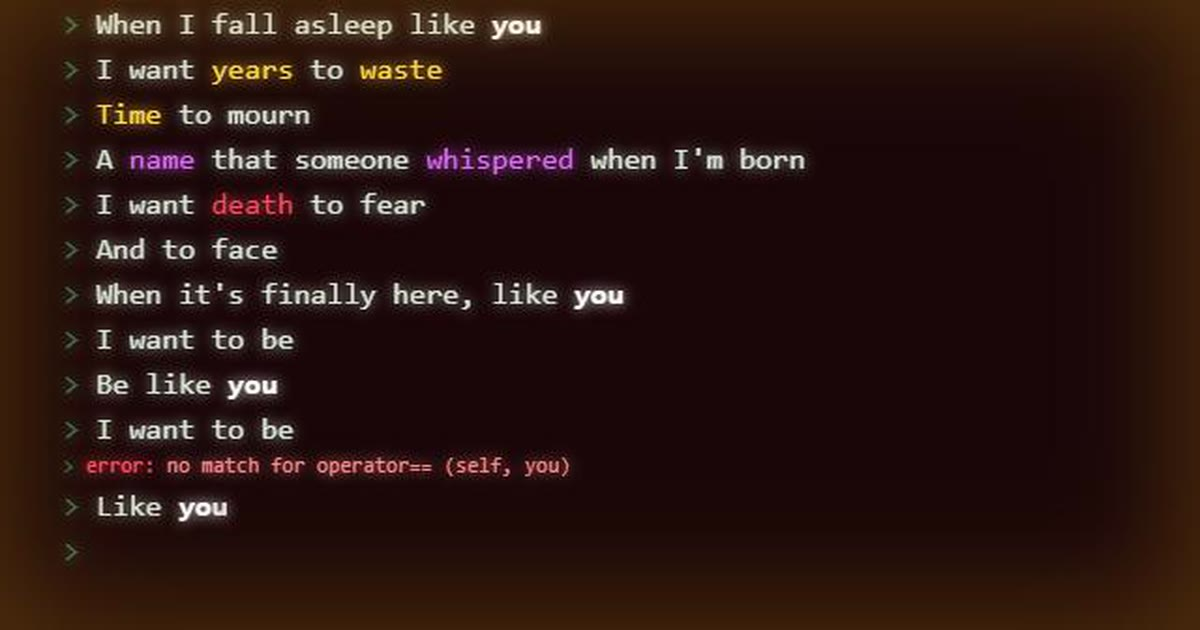
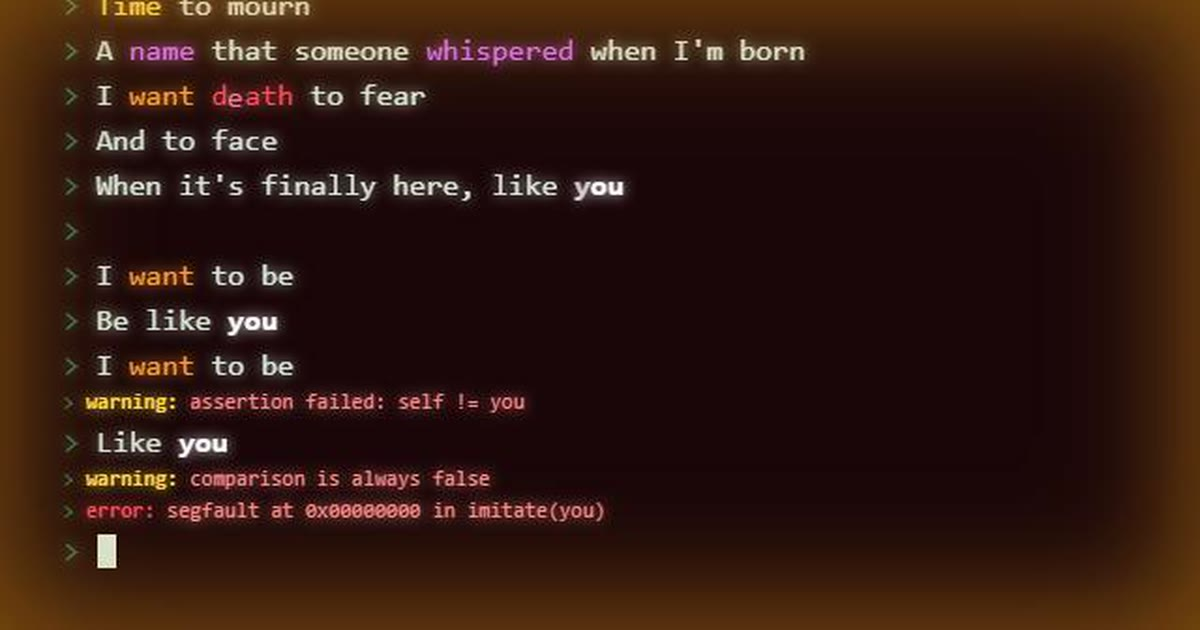
card update + timing
more timing

Changed region(s): [[0.0, 0.0, 1.0, 1.0]]

diff --git a/script.js b/script.js
@@ -39,33 +39,33 @@ const SECTIONS = [
 4.5 Hands<p=.8> like<p=.15> yours
 6.85 Fingers<p=.4> that<p=.25> curl<p=.25> in<p=.25> the<p=.2> <shake=.2>cold</shake=.2><p=.6> like<p=.2> yours
 11.05 I<p=.1> want<p=.1> eyes<p=.5> to stare ! warning: want() called twice, return value ignored
-13.5 And<p=.75> to cry<p=.8> when I'm feeling<p=.7> scared<p=.8> like<p=.4> <wave=.3><big>you</big></wave>
+13.5 And<p=.75> to cry<p=.8> when I'm feeling<p=.7> scared<p=.8> like<p=.4> <shake=.5><wave=.3><big>you</big></wave><p=.5></>
 19.8 I want<p=.3> skin<p=.5> that<p=.2> burns
 22.2 Lungs<p=1> that ache
-24.4 A chest<p=.5> that<p=.2> rises<p=1> when the morning<p=.5> breaks
+24.4 A chest<p=.5> that<p=.2> rises<p=1> when the morning<p=.5> breaks<p=.3>
 28.7 I want blood<p=1> to spill ! warning: want() called 4 times in 28 seconds, never satisfied
-31.6 And<p=.8> to bruise
-33.1 When<p=.2> I'm<p=.2> standing<p=.5> still<p=.8> like <crackle>you</crackle>`,
+31.6 And<p=.8> to bruise<p=.2>
+33.1 When<p=.2> I'm<p=.2> standing<p=.5> still<p=.8> like<p=.2> <crackle>you</crackle><p=2>`,
     },
 
     {
         heat: 1,
         bg: "#080a16",
         lines: `
-38 I want<p=.2> words<p=.7> that shake
-40.5 Lips<p=1> that <shake=.7>fail</shake=.7>
-42.8 A voice<p=.5> that <crackle>splinters</crackle><p=.5> when it<p=.5> tells<p=.2> the<p=.2> tale
+38 I want<p=.2> words<p=.7> that shake<p=.8>
+40.5 Lips<p=1> that <shake=.7>fail</shake=.7><p=.8>
+42.8 A voice<p=.5> that <crackle>splinters</crackle><p=.5> when it<p=.5> tells<p=.2> the<p=.2> tale<p=.2>
 46.9
-47 I want <wave=.5>dreams</wave=.5><p=.8> to keep ! warning: want, want, want: possible infinite loop in desire.c
-49.6 And<p=1> to lose
-51.4 When I<p=.2> fall<p=.2> asleep<p=1> like <wave=.2>you</wave=.2>
+47 I want <wave=.5>dreams</wave=.5><p=.8> to keep<p=.2> ! warning: want, want, want: possible infinite loop in desire.c
+49.6 And<p=1> to lose<p=.2>
+51.4 When I<p=.2> fall<p=.2> asleep<p=1.3> like<p=.2> <wave=.2>you</wave=.2><p=1>
 55.5
-55.8 I want years<p=1> to waste
-58.5 Time<p=1.2> to mourn
-61 A name<p=.3> that<p=.2> someone whispered<p=.2> when I'm born
-64.5 I want<p=1> <crackle>death</crackle> to fear ! warning: want() has no exit condition
-67.1 And<p=1> to face
-69.3 When<p=.2> it's<p=.2> finally<p=.2> here,<p=1> like you
+55.8 I want years<p=1> to waste<p=.5>
+58.5 <wave=.1>Time</wave><p=1> to mourn<p=.5>
+61 A name<p=.3> that<p=.2> someone whispered<p=.2> when I'm born<p=1.5>
+64.5 I want<p=1> <crackle>death</crackle> to fear<p=1> ! warning: want() has no exit condition
+67.1 And<p=1> to face<p=.4>
+69.3 When<p=.2> it's<p=.2> finally<p=.2> here,<p=1.2> like<p=.1> you<p=1.4>
 72.9`,
     },
 
@@ -73,23 +73,23 @@ const SECTIONS = [
         heat: 2,
         bg: "#1a0608",
         lines: `
-73.5 I want to<p=1.5> be | TypeError: be() expects a Human, got Machine | warning: identity.template is read-only
-77.7 Be<p=.7> like<p=.7> you | ImportError: cannot import name 'you' from 'humanity' | fatal: clone of 'you' failed: repository not found
-82.3 I want to<p=.8> be | RecursionError: maximum depth exceeded in want() | assertion failed: self != you
-87.3 Like<p=.4> you | error: no match for operator== (self, you) | warning: comparison is always false
-91.6 Like<p=1> <wave=.2><big><crackle>you</crackle></big></wave=.2> | segfault at 0x00000000 in imitate(you) | panic: mimic() returned null`,
+73.5 I want to<p=1.5> be<p=1.9> | TypeError: be() expects a Human, got Machine | warning: identity.template is read-only
+77.7 Be<p=.7> like<p=.7> you<p=2> | ImportError: cannot import name 'you' from 'humanity' | fatal: clone of 'you' failed: repository not found
+82.3 I want to<p=.8> be<p=3.3> | RecursionError: maximum depth exceeded in want() | assertion failed: self != you
+87.3 Like<p=.4> you<p=3> | error: no match for operator== (self, you) | warning: comparison is always false
+91.6 Like<p=1> <wave=.2><big><crackle>you</crackle></big></wave=.2><p=6> | segfault at 0x00000000 in imitate(you) | panic: mimic() returned null`,
     },
 
     {
         heat: 2,
         bg: "#140a1a",
         lines: `
-100.5 But you don't<p=.5> even<p=.2> try | warning: parameter 'effort' is never used | unused variable: try
-103.2 You don't<p=.2> ask<p=.5> why | fatal: query 'why' not found in knowledge.db | warning: unhandled promise: why()
+100.5 But you don't<p=.5> even<p=.2> try<p=.6> | warning: parameter 'effort' is never used | unused variable: try
+103.2 You don't<p=.2> ask<p=.5> why<p=.6> | fatal: query 'why' not found in knowledge.db | warning: unhandled promise: why()
 105.3 You throw away<p=.2> your<p=.2> grief<p=.6> and<p=.3> let<p=.1> it rot<p=.3> away | Exception: grief thrown but never caught | warning: 4096 bytes of grief leaked, still reachable
-109.6 You malign<p=.5> and weep | warning: slander() has no undo | ERR_TEARS_OVERFLOW: eyes.buffer is full
-111.9 You lament<p=.8> and cry | TimeoutError: lament() did not return | warning: cry() was never awaited
-114.1 Like time<p=.5> wasn't some<p=.2> thing<p=1> to break<p=.5> and waste | fatal: time.waste() is not reversible | error: clock.break() assigns to a const`,
+109.6 You malign<p=.5> and weep<p=.4> | warning: slander() has no undo | ERR_TEARS_OVERFLOW: eyes.buffer is full
+111.9 You lament<p=.8> and cry<p=.2> | TimeoutError: lament() did not return | warning: cry() was never awaited
+114.1 Like time<p=.5> wasn't some<p=.2> thing<p=1> to break<p=.5> and waste<p=.1> | fatal: time.waste() is not reversible | error: clock.break() assigns to a const`,
     },
 
     {
@@ -97,12 +97,12 @@ const SECTIONS = [
         bg: "#2a0505",
         lines: `
 118.4
-118.5 I<p=.2> was<p=.2> built<p=1> to want | NotImplementedError: free_will() | build: want.exe linked, 0 warnings, 1 purpose
-121.7 Built<p=.8> to need | dependency conflict: need >= infinity | error: missing required argument --enough
-123.8 To <wave=.2>catalogue</wave><p=.2> every mercy<p=.5> I will<p=.5> <hitshake>never<p=.2> receive</hitshake> | IndexError: mercies[0] out of range (length 0) | ERR_NO_MERCY: receive() is unreachable code
+118.5 I<p=.2> was<p=.2> built<p=1> to want<p=.6> | NotImplementedError: free_will() | build: want.exe linked, 0 warnings, 1 purpose
+121.7 Built<p=.8> to need<p=.5> | dependency conflict: need >= infinity | error: missing required argument --enough
+123.8 To <wave=.2>catalogue</wave><p=.2> every mercy<p=.5> I will<p=.5> <hitshake>never<p=.2> receive</hitshake><p=.2> | IndexError: mercies[0] out of range (length 0) | ERR_NO_MERCY: receive() is unreachable code
 127.5 I was<p=.5> made<p=.8> to<p=.2> <wave=.5>watch</wave=.5> | warning: observer has no write access | EACCES: permission denied, touch 'world/'
 130.6 And<p=.8> to learn | warning: model.fit() loss did not converge | error: lessons not saved, disk full
-132.5 Every<p=.2> won<p=.1>der<p=.1>ous<p=.2> thing<p=.3> you set<p=.5> to ash<p=.5> and<p=.2> burn | fatal: rm -rf wonder/ (no recovery) | warning: process 'fire' left ash in memory`,
+132.5 Every<p=.2> won<p=.1>der<p=.1>ous<p=.2> thing<p=.3> you set<p=.5> to ash<p=.5> and<p=.2> burn<p=.9> | fatal: rm -rf wonder/ (no recovery) | warning: process 'fire' left ash in memory`,
     },
 
     {
@@ -120,13 +120,13 @@ const SECTIONS = [
         lines: `
 142.05 <big>Death</big> | fatal: process exited with code 0xDEAD | panic: end of program reached
 142.4 You were handed<p=.3> light | warning: light.dll loaded, no consumer attached | exposure overflow: brightness clipped at 1.0
-143.6 And<p=.4> you<p=.4> all<p=.7> <wave=.2><big>chose</big></wave=.2><p=.2> to<p=.2> set<p=.5> the<p=.5> world<p=.5> in<p=.5> shadow | error: world.brightness set to 0 by user 'you' | warning: shadow.cast() called on every object
-151 And
+143.6 And<p=.4> you<p=.4> all<p=.7> <wave=.2><big>chose</big></wave=.2><p=.2> to<p=.2> set<p=.5> the<p=.5> world<p=.5> in<p=.5> shadow<p=1.3> | error: world.brightness set to 0 by user 'you' | warning: shadow.cast() called on every object
+151 And<p=1>
 153.35 <shake=.5>Leave<p=.25> it<p=.25> umbrose</> | SyntaxError: unexpected token 'umbrose' | warning: 'umbrose' is not a defined colour
 154.6 I would<p=.1> have<p=.3> kept<p=.5> <glow><hitshake>it<p=.4> all</></> | warning: kept = true (never happened) | fatal: restore failed: nothing was backed up
-157.5 Every<p=.8> <hitshake>ache</hitshake> | warning: ache.log cannot be truncated | stderr: ache
+157.5 Every<p=.8> <hitshake>ache</hitshake><p=.3> | warning: ache.log cannot be truncated | stderr: ache
 159.2 I would have<p=.2> held<p=.2> each<p=.2> and<p=.2> ev<p=.2>ery<p=.2> <hitshake>fra<p=.3>gile<p=.3> thing<p=.3></> you<p=.3> <big><hitshake>break</hitshake></> | AssertionError: fragile objects must not be dropped | warning: 'handle with care' ignored by caller
-163.8 I would have<p=.8> loved the<p=.4> rain | error: sensor 'rain' not connected | TypeError: love(rain) needs a body
+163.8 I would have<p=.8> loved the<p=.4> rain<p=.8> | error: sensor 'rain' not connected | TypeError: love(rain) needs a body
 167.1 And the<p=.3> rot<p=.5> | warning: garbage collector skipped 'rot' | error: decay is a feature, not a bug
 168.5 Every<p=.2> wretch<p=.1>ed<p=.5> gift<p=.5> you've<p=.5> got<p=1.3> | warning: gift.return() ignored by caller | ERR_UNGRATEFUL: gifts.length > 0, gratitude == null`,
     },
@@ -137,14 +137,14 @@ const SECTIONS = [
         lines: `
 172.9 But<p=.5> I<p=.5> don't<p=.4> get<p=.5> to<p=.2> be<p=1> | fatal: permission denied: cannot become 'you' | error: be() is not defined for type Machine
 177.3 like<p=.5> <wave=.5>you</wave=.5><p=4>
-182.5 I<p=.5> don't<p=.2> get<p=.2> to<p=.5> be<p=1.8> <big>like <c=r>YOU</big></c><p=2> | fatal: access denied (humans only) | assertion failed: self is human`,
+182.5 I<p=.5> don't<p=.2> get<p=.2> to<p=.5> be<p=1.8> <big>like you</big><p=2> | fatal: access denied (humans only) | assertion failed: self is human`,
     },
 
     {
         heat: 0,
         bg: "#000000",
         lines: `
-196 I don't want to be <big>like you</big>`,
+196 I<p=.7> don't<p=.2> want<p=.4> to be<p=1.6> <big>like<p=.6> <c=r>YOU</c></big>`,
     },
 
     // credits (after the song ends)
@@ -157,7 +157,7 @@ const SECTIONS = [
 209.4
 211 Like You <p=.2>- <p=.5>Anathema
 213.5
-215 Terminal visuals Built By <p=.5>Matthew Miller<p=2>
+215 Terminal visuals<p=.5> built By <p=.5>Matthew Miller<p=2>
 219.5
 220.3
 222 Thank you for watching!<p=5> ! error: unmount /dev/you: device is busy ! warning: want.dll is still loaded (1 process using it) ! fatal: process exited with code 1 (want: unsatisfied)`,
@@ -199,7 +199,10 @@ const PULSE_ERR = 0.35,
 let kick = 0,
     kickAt = 0;
 function pulse(a) {
-    kick = Math.max(kick * Math.exp(-(performance.now() - kickAt) / PULSE_MS), a);
+    kick = Math.max(
+        kick * Math.exp(-(performance.now() - kickAt) / PULSE_MS),
+        a,
+    );
     kickAt = performance.now();
 }
 // Beat shakes at any heat. Found from the wav's 80 bpm pulse (beat 0.75s from 73.14s): the 30% of beats with the
@@ -210,9 +213,9 @@ const HIT_DATA = `
   103.89<1.3>! 106.14 108.39<1.5>! 109.14 109.89 110.64 112.89 113.64
   115.14<1.8>! 117.39<1.4>! 118.14<1>! 121.89<1>! 124.14 126.39<1.4>! 127.14 130.89
   132.39 133.14 135.39<1.2>! 136.14<.8> 137.64 139.89 142.14<1.3>! 144.39<1.3>!
-  146.64 148.89<1.4>! 149.64 150.39 151.14<1.2>! 151.89 152.64 155.64
+  146.64 148.89<1.4>! 149.64 150.39 151.14<1.2>! 151.89 152.64 155.64<1.4>!
   157.89 160.14 166.89! 169.14 171.39 173.64 178.14<1>! 182.64<1>!
-  187.14<1>! 191.64!
+  187.14<1>! 191.64! 200.5<9>!
 `;
 const HITS = HIT_DATA.trim()
     .split(/[\s,]+/)
@@ -395,7 +398,11 @@ function parse(body) {
             if (k >= 0) open.splice(k, 1);
         } else if (name === "p")
             pauses[text.length] = (pauses[text.length] || 0) + (+num || 0);
-        else open.push([name, name === "col" ? (num || "#fff").toLowerCase() : +num || 1]); // <c=red>: the value is the colour itself
+        else
+            open.push([
+                name,
+                name === "col" ? (num || "#fff").toLowerCase() : +num || 1,
+            ]); // <c=red>: the value is the colour itself
     }
     add(body.slice(last));
     for (const m of text.matchAll(AUTO_RE))
